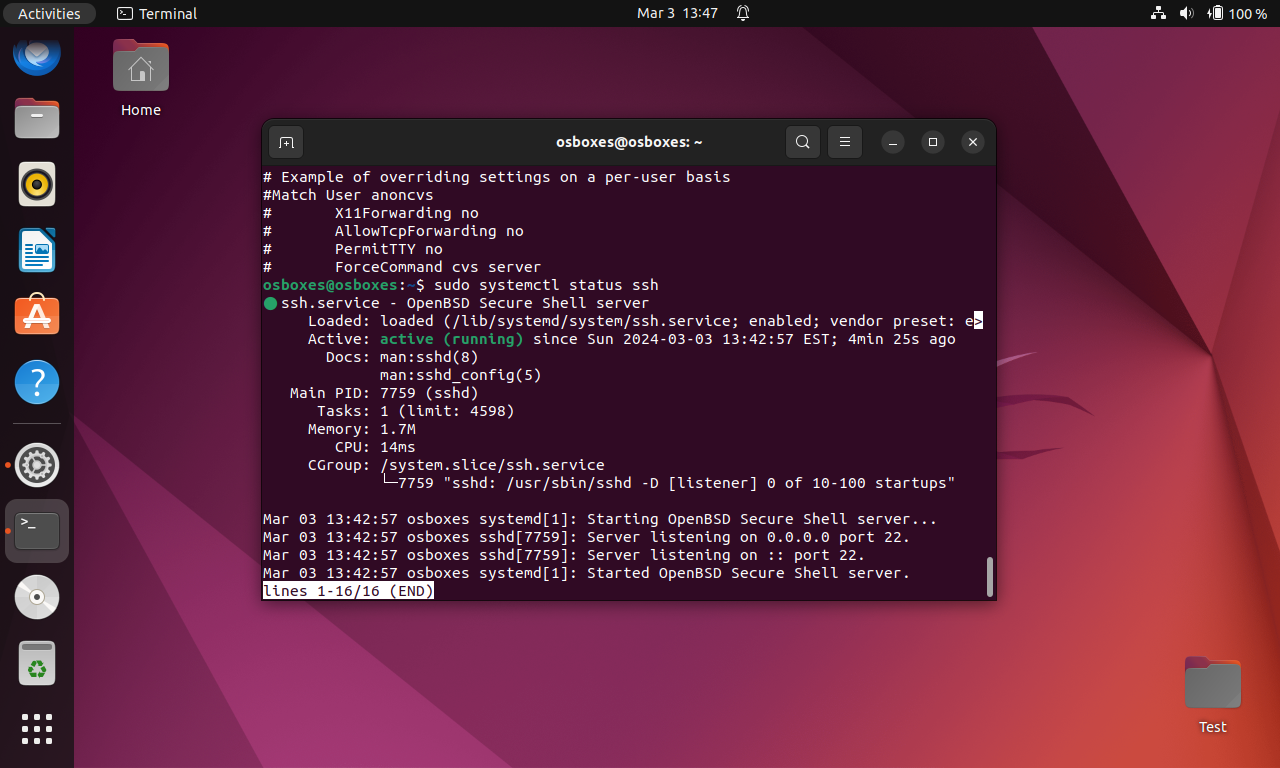
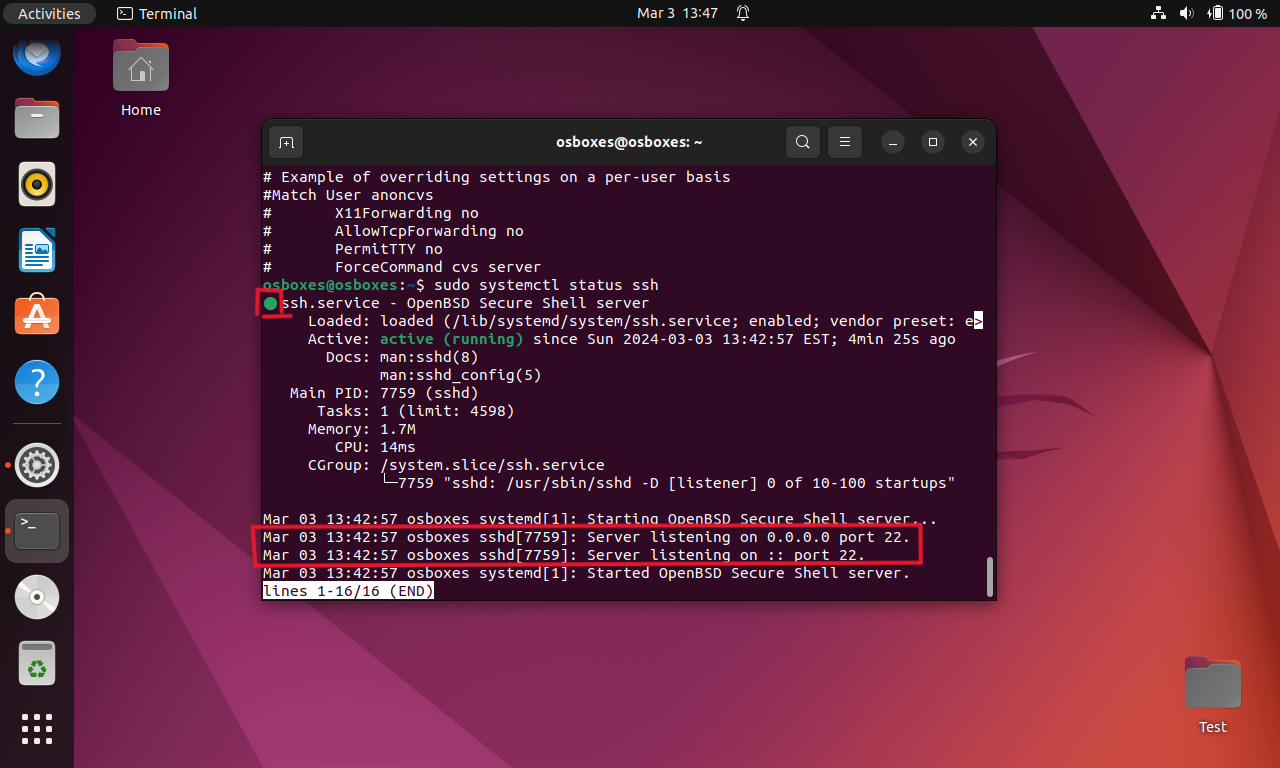
update Verslag 2
TEM deel 4 stukje van deel 5

Changed region(s): [[0.1875, 0.6562, 0.7188, 0.75], [0.1875, 0.375, 0.2188, 0.4375]]

diff --git a/verslagen/3-webserver.md b/verslagen/3-webserver.md
@@ -7,11 +7,6 @@
 In deze opdracht ga je een webserver opzetten op je VM. Je zal een statische website publiceren op de webserver. Je zal ook de firewall configureren om de webserver te beveiligen. Ten slotte ga je fail2ban installeren en configureren om aanvallen op de webserver te detecteren en te blokkeren. Je zal ook een whitelist aanmaken om je eigen IP-adres toe te voegen.
 
 ## :thinking: Antwoorden op de vragen in de opdracht
-
-<!-- Voeg hieronder de antwoorden op de vragen in de opdracht toe. Gebruik voor elke vraag een aparte sectie. -->
-
-### Vraag 1 -
-
 **Luistert de Apache netwerkservice enkel naar de loopback-interface zoals MySQL? Of is de service meteen ook van buitenaf toegankelijk? Hoe controleer je dit?**
 
 - Ga naar de Apache-configuratiemap. De hoofdconfiguratie zich in `/etc/apache2/ports.conf`. Open dit bestand met een teksteditor. Bijvoorbeeld met nano:
@@ -42,16 +37,31 @@ In deze opdracht ga je een webserver opzetten op je VM. Je zal een statische web
   ```bash
   sudo systemctl status ssh
   ```
-  Dit commando zal de status van de SSH service tonen.
   | ![Screenshot terminal](./img/3-webserver/sshStatus.png) |
   | :-----------------------------------------------------: |
-  | Figuur 3. De status van de SSH service |
-- Om te controleren op welke poort de SSH server draait, kan je het volgende commando gebruiken:
-  ```bash
-  cat /etc/ssh/sshd_config
-  ```
-  Hierin kan je de configuratie van de SSH server zien. De standaardpoort is 22.
+  |         Figuur 3. De status van de SSH service          |
+  > Op dit scherm kan je zien dat de service draait en welke poort deze naar luister.
 
+**Welke netwerkpoort wordt gebruikt voor HTTPS? Met welk commando kan je dit opzoeken?**
+
+- Je kan dit vinden in `/etc/apache2/sites-available/default-ssl.conf`
+  Dus met het commando:
+  ```bash
+  cat /etc/apache2/sites-available/default-ssl.conf
+  ```
+  | ![Screenshot terminal](./img/3-webserver/httpsPoort.png) |
+  | :------------------------------------------------------: |
+  |   Figuur 4. De poort waarop de HTTPS service luistert    |
+
+**Gebruik systemctl om fail2ban op te starten bij het starten van de VM. Hoe kan je opzoeken of dit correct gebeurd is?**
+Je kan zorgen dat fail2ban opstart bij het starten van de VM met het commando:
+```bash	
+sudo systemctl enable fail2ban
+```
+Je kan controleren of dit correct gebeurd is met het commando:
+```bash
+sudo systemctl is-enabled fail2ban
+```
 ## :memo: Evaluatiecriteria
 
 Toon na afwerken het resultaat aan je begeleider. Elk teamlid moet in staat zijn om het resultaat te demonstreren bij de oplevering van deze opdracht! Criteria voor beoordeling:
@@ -105,7 +115,6 @@ Beschrijf hier hoe je elk evaluatiecriterium zal demonstreren. Geef ook aan welk
   | :-----------------------------------------------------: |
   | Figuur 4. Connectie via FileZilla |
   | ![Screenshot Webbrowser](./img/3-webserver/WebsiteBereikbaarFysiekeComputer.png) |
-  | :-----------------------------------------------------: |
   | Figuur 5. Website bereikbaar via fysieke computer |
 
 ## Reflecties
